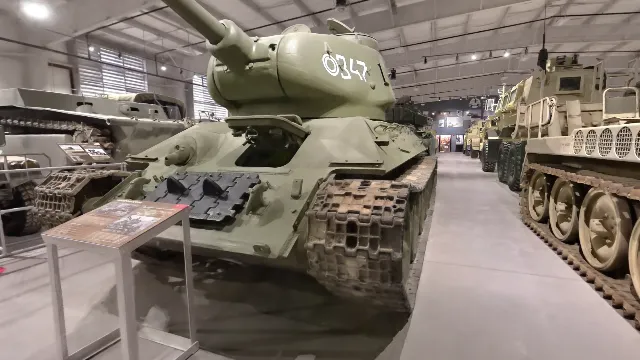
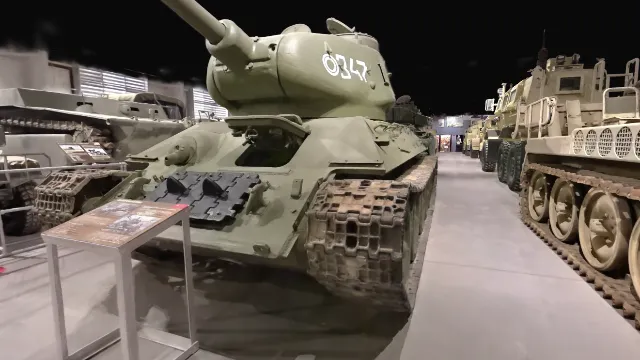
Dark background, vignette, persistent museum title, gentler sway
- Near-black clear colour; thumbnails re-rendered to match
- Soft vignette overlay above the canvas (not in thumbnails)
- Museum name + location top-left (hidden in dev mode)
- Sway ±1.5° over 14 s (was ±3.5° over 8 s); orbit 2°/s

diff --git a/src/styles.css b/src/styles.css
@@ -12,7 +12,7 @@ html, body {
   margin: 0;
   height: 100%;
   overflow: hidden;
-  background: #17120e;
+  background: #09090a;
   color: var(--ink);
 }
 
@@ -351,3 +351,39 @@ kbd {
 .dev-editor__confirm { display: flex; align-items: center; gap: 8px; padding: 8px; border-radius: 8px; background: rgba(200, 70, 50, 0.18); }
 .dev-editor__confirm[hidden] { display: none; }
 .dev-editor__confirm span { flex: 1; }
+
+/* ---- Framing: vignette and museum title ---- */
+.vignette {
+  position: fixed;
+  inset: 0;
+  pointer-events: none;
+  z-index: 3; /* over the canvas only: thumbnails (read from the canvas) stay clean */
+  background:
+    radial-gradient(ellipse 75% 70% at 45% 50%, transparent 55%, rgba(0, 0, 0, 0.55) 100%),
+    linear-gradient(to bottom, rgba(0, 0, 0, 0.35), transparent 18%, transparent 82%, rgba(0, 0, 0, 0.3));
+}
+
+.brand {
+  position: absolute;
+  top: 22px;
+  left: 26px;
+  max-width: calc(100vw - 340px - 52px);
+  pointer-events: none;
+  text-shadow: 0 1px 12px rgba(0, 0, 0, 0.6);
+}
+.brand__title {
+  margin: 0;
+  font-size: 1.15rem;
+  font-weight: 700;
+  letter-spacing: 0.06em;
+  text-transform: uppercase;
+}
+.brand__subtitle {
+  margin: 2px 0 0;
+  font-size: 0.8rem;
+  letter-spacing: 0.12em;
+  text-transform: uppercase;
+  color: var(--accent);
+}
+/* Dev mode's HUD takes the top-left corner */
+.is-dev .brand { display: none; }

diff --git a/src/viewer.ts b/src/viewer.ts
@@ -44,9 +44,9 @@ export type FlightResult = 'arrived' | 'replaced' | 'interrupted';
 
 export type DriftKind = 'orbit' | 'sway' | 'none';
 
-const SWAY_DEGREES = 3.5; // peak yaw either side of the saved view
-const SWAY_PERIOD = 8; // seconds for one full side-to-side cycle
-const ORBIT_DEG_PER_SEC = 3; // one revolution every two minutes
+const SWAY_DEGREES = 1.5; // peak yaw either side of the saved view
+const SWAY_PERIOD = 14; // seconds for one full side-to-side cycle
+const ORBIT_DEG_PER_SEC = 2; // one revolution every three minutes
 const DRIFT_RAMP = 2.5; // seconds to ease into the motion
 const smoothstep = (x: number) => (x <= 0 ? 0 : x >= 1 ? 1 : x * x * (3 - 2 * x));
 
@@ -125,7 +125,7 @@ export class Viewer {
     const { position, fov } = opts.initialPose;
     const camera = new Entity('camera');
     camera.addComponent('camera', {
-      clearColor: new Color(0.73, 0.78, 0.82),
+      clearColor: new Color(0.035, 0.035, 0.04), // near-black: the roofless hall floats in darkness
       fov,
       nearClip: 0.05,
       farClip: 10000, // the scan's sky/environment shell reaches ~1,500 units out

diff --git a/index.html b/index.html
@@ -13,7 +13,13 @@
       <div class="loader__bar"><div class="loader__fill"></div></div>
       <p class="loader__label">Loading scan…</p>
     </div>
-    <div id="ui" class="ui"></div>
+    <div class="vignette" aria-hidden="true"></div>
+    <div id="ui" class="ui">
+      <header class="brand">
+        <p class="brand__title">Tucson Military Vehicle Museum</p>
+        <p class="brand__subtitle">Tucson, Arizona</p>
+      </header>
+    </div>
     <div id="fade" class="fade" aria-hidden="true"></div>
     <script type="module" src="/src/main.ts"></script>
   </body>

diff --git a/src/main.ts b/src/main.ts
@@ -28,6 +28,8 @@ async function start() {
     if (edits) await thumbs.restore(tour.stops, edits.thumbs);
     loader.querySelector('.loader__title')!.textContent = data.title;
     loader.querySelector('.loader__subtitle')!.textContent = data.subtitle;
+    ui.querySelector('.brand__title')!.textContent = data.title;
+    ui.querySelector('.brand__subtitle')!.textContent = data.subtitle;
 
     // UI is built straight away (the carousel's thumbnails can load while the model streams).
     const nav = createNav(tour, ui);

diff --git a/Tucson Military Vehicle Museum Tour — v1 Spec.md b/Tucson Military Vehicle Museum Tour — v1 Spec.md
@@ -123,7 +123,7 @@ Order in the array is tour order. Until poses are captured, ship 10 stops with p
 
 ## Viewer and tour behavior
 
-The splat fills the window; the carousel floats over the right side, about 340 px wide, without a panel behind it. The scene stays explorable at all times.
+The splat fills the window over a near-black background (#09090a), with a soft vignette around the edges (an overlay above the canvas, so thumbnails stay clean). The museum name and "Tucson, Arizona" sit small and persistent at the top-left (hidden in dev mode, where the HUD takes that corner). The carousel floats over the right side, about 340 px wide, without a panel behind it. The scene stays explorable at all times.
 
 ```
 +--------------------------------------------+-------------+
@@ -164,7 +164,7 @@ The splat fills the window; the carousel floats over the right side, about 340 p
 
 **Idle drift**
 
-- After arriving, start the stop's drift: `sway` = slow side-to-side movement of a few degrees around the target over \~8 s; `orbit` = slow continuous orbit (stop 1, the overview).
+- After arriving, start the stop's drift: `sway` = a gentle ±1.5° side-to-side movement around the target over \~14 s; `orbit` = slow continuous orbit, 2°/s.
 - Any user input on the canvas stops the drift and hands control to the user. The active card stays selected; a "Back to view" button on the card returns to the saved pose.
 
 **Loading**
